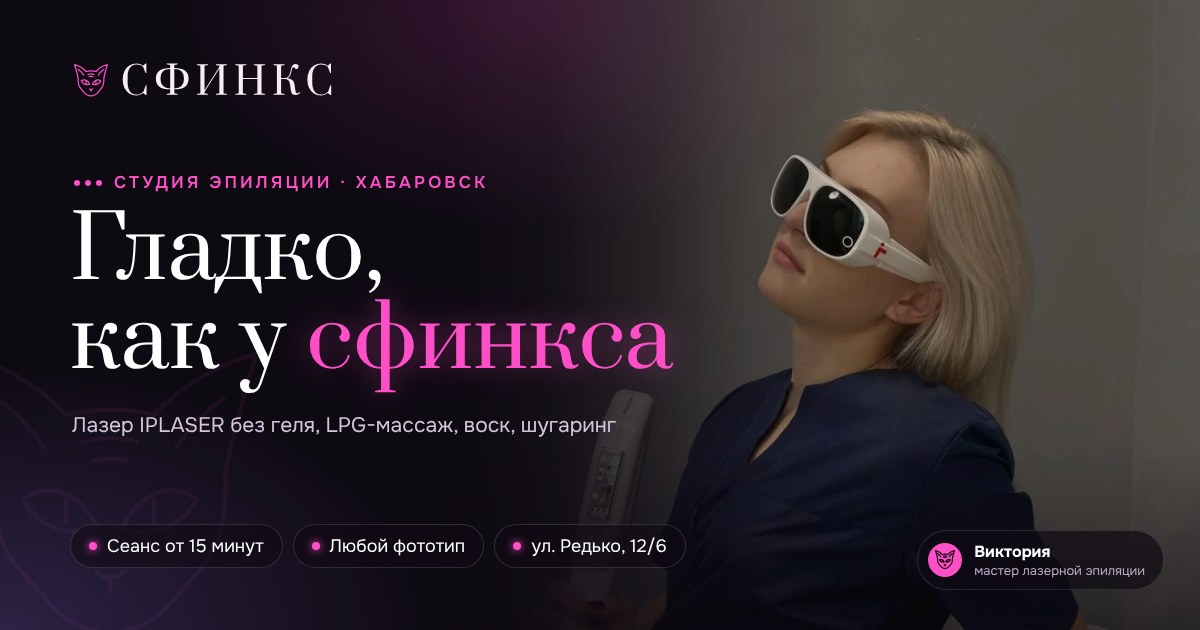
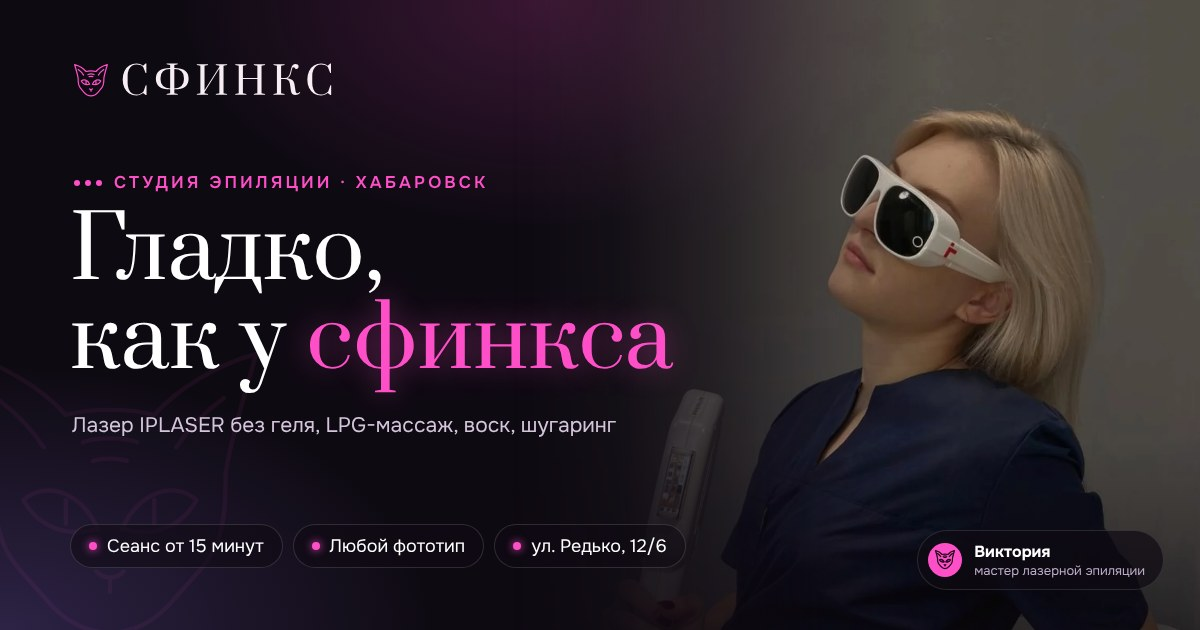
Sphinx: preview photo shifted right
Claude-Session: https://claude.ai/code/session_015USu4HwaNhKR7Lttcm98WS

diff --git a/sphinx/index.html b/sphinx/index.html
@@ -14,12 +14,12 @@
 <meta property="og:title" content="Сфинкс · гладко, как у сфинкса">
 <meta property="og:description" content="Лазерная эпиляция IPLASER без геля, LPG-массаж, воск и шугаринг. Хабаровск, Редько 12/6.">
 <meta property="og:url" content="https://staswebdesign.github.io/sphinx/">
-<meta property="og:image" content="https://staswebdesign.github.io/sphinx/og.jpg?v=3">
+<meta property="og:image" content="https://staswebdesign.github.io/sphinx/og.jpg?v=4">
 <meta property="og:image:width" content="1200">
 <meta property="og:image:height" content="630">
 <meta property="og:image:alt" content="Студия Сфинкс: лазерная эпиляция и LPG-массаж в Хабаровске">
 <meta name="twitter:card" content="summary_large_image">
-<meta name="twitter:image" content="https://staswebdesign.github.io/sphinx/og.jpg?v=3">
+<meta name="twitter:image" content="https://staswebdesign.github.io/sphinx/og.jpg?v=4">
 <link rel="preload" href="fonts/prata.woff2" as="font" type="font/woff2" crossorigin>
 <link rel="preload" href="fonts/onest.woff2" as="font" type="font/woff2" crossorigin>
 <link rel="preload" href="img/hero-viktoria.webp" as="image">
